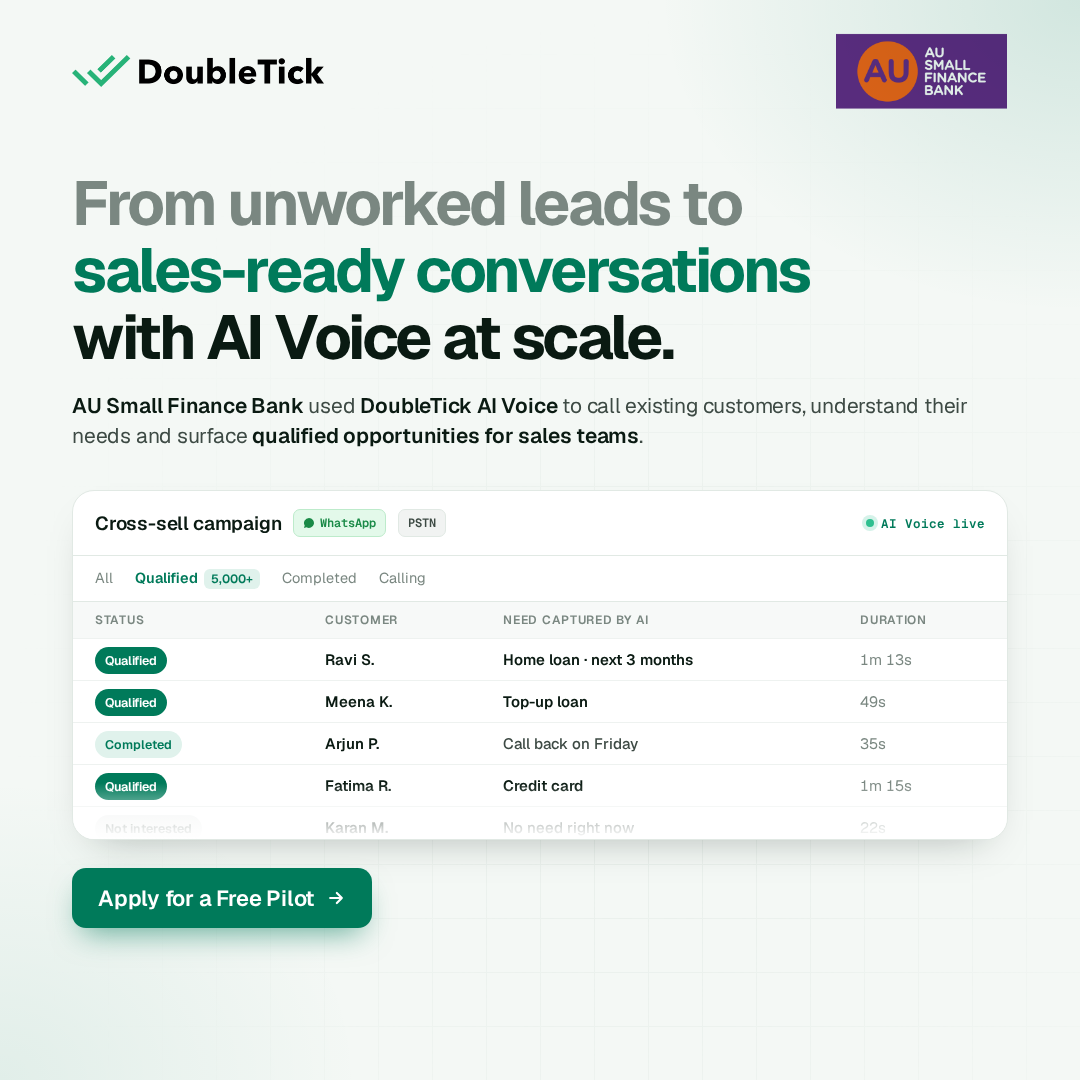
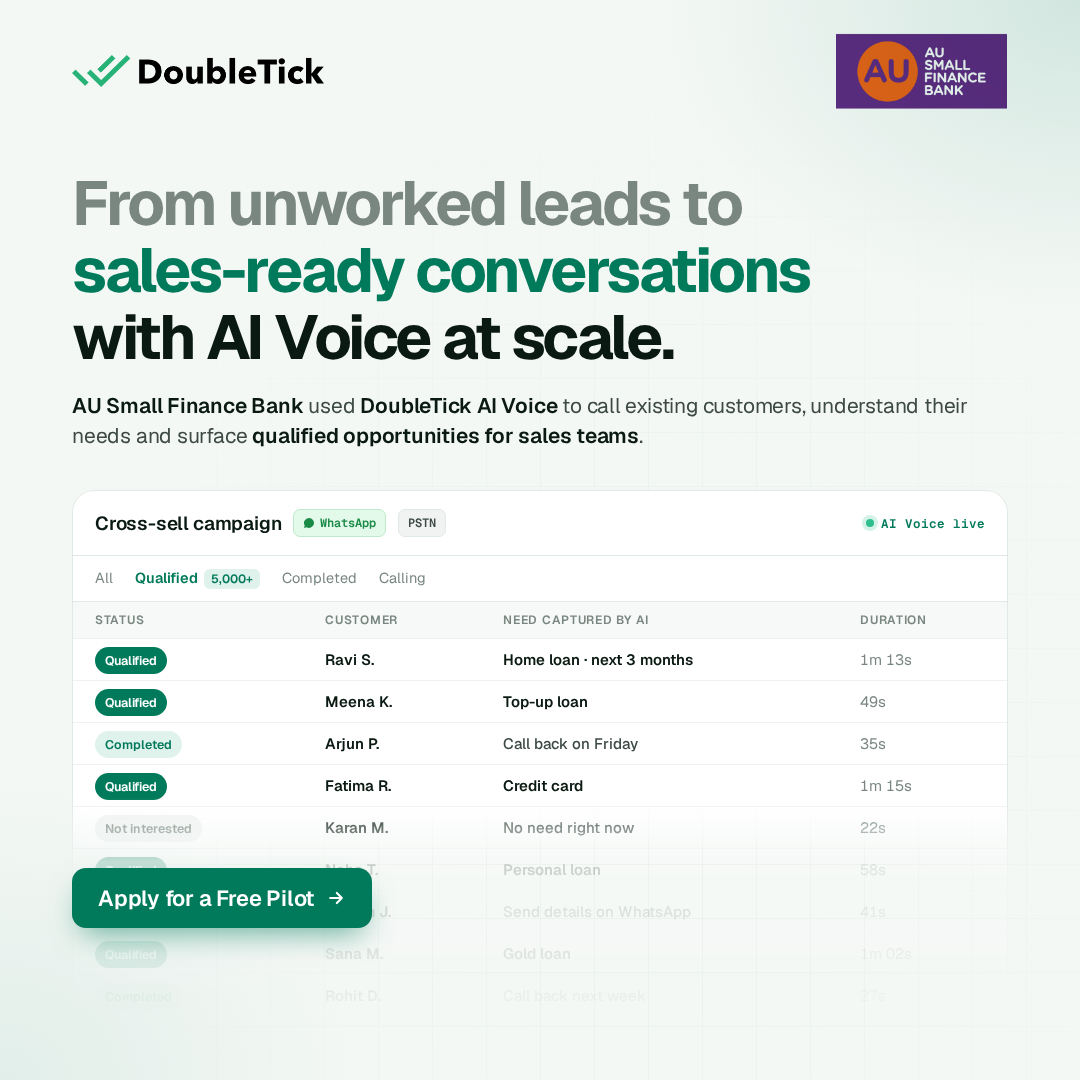
feat: extend AU dashboard visual to bottom edge with fade
Claude-Session: https://claude.ai/code/session_013Hi5o4KgvuLbKTeGkStAKX

Changed region(s): [[0.0917, 0.7333, 0.9167, 0.825]]

diff --git a/ads/doubletick-case-au-v4-dashboard/index.html b/ads/doubletick-case-au-v4-dashboard/index.html
@@ -69,7 +69,9 @@
   .vis { position: absolute; left: 72px; top: 490px; width: 936px; height: 350px; }
   .card { background: #fff; border: 1px solid var(--line); border-radius: 22px; box-shadow: 0 18px 40px -24px rgba(10,26,18,.35); }
   .cap { font-size: 12.5px; font-weight: 600; letter-spacing: .07em; text-transform: uppercase; }
-  .dash { position: absolute; inset: 0; overflow: hidden; }
+  .dash { position: absolute; inset: 0; overflow: hidden; border-bottom: 0; border-radius: 22px 22px 0 0; -webkit-mask-image: linear-gradient(#000 52%, rgba(0,0,0,.18) 63%, rgba(0,0,0,.08) 80%, transparent 96%); mask-image: linear-gradient(#000 52%, rgba(0,0,0,.18) 63%, rgba(0,0,0,.08) 80%, transparent 96%); }
+  .ad > .vis { height: 590px; }
+  .ad > .cta { z-index: 2; }
   .dh { display: flex; align-items: center; gap: 12px; padding: 18px 22px; border-bottom: 1px solid var(--line); }
   .dh .tt { font-size: 19px; font-weight: 600; letter-spacing: -0.01em; }
   .chip { font-size: 12px; font-weight: 600; padding: 5px 9px; border-radius: 7px; display: inline-flex; align-items: center; gap: 5px; }
@@ -109,8 +111,7 @@
   <div class="vis"><div class="card dash">
     <div class="dh"><span class="tt">Cross-sell campaign</span><span class="chip wa mono"><svg width="12" height="12" viewBox="0 0 24 24" fill="#1A8A47"><path d="M12 2a10 10 0 0 0-8.6 15.1L2 22l5-1.3A10 10 0 1 0 12 2z"/></svg>WhatsApp</span><span class="chip ps mono">PSTN</span><span class="live mono"><i></i>AI Voice live</span></div>
     <div class="tabs"><span>All</span><span class="on"><b style="color:inherit">Qualified</b><span class="n">5,000+</span></span><span>Completed</span><span>Calling</span></div>
-    <table><thead><tr><th>Status</th><th>Customer</th><th>Need captured by AI</th><th>Duration</th></tr></thead><tbody><tr><td><span class="st q">Qualified</span></td><td class="nm">Ravi S.</td><td class="need hot">Home loan · next 3 months</td><td class="du">1m 13s</td></tr><tr><td><span class="st q">Qualified</span></td><td class="nm">Meena K.</td><td class="need hot">Top-up loan</td><td class="du">49s</td></tr><tr><td><span class="st c">Completed</span></td><td class="nm">Arjun P.</td><td class="need ">Call back on Friday</td><td class="du">35s</td></tr><tr><td><span class="st q">Qualified</span></td><td class="nm">Fatima R.</td><td class="need hot">Credit card</td><td class="du">1m 15s</td></tr><tr><td><span class="st n">Not interested</span></td><td class="nm">Karan M.</td><td class="need ">No need right now</td><td class="du">22s</td></tr></tbody></table>
-    <div class="fade"></div>
+    <table><thead><tr><th>Status</th><th>Customer</th><th>Need captured by AI</th><th>Duration</th></tr></thead><tbody><tr><td><span class="st q">Qualified</span></td><td class="nm">Ravi S.</td><td class="need hot">Home loan · next 3 months</td><td class="du">1m 13s</td></tr><tr><td><span class="st q">Qualified</span></td><td class="nm">Meena K.</td><td class="need hot">Top-up loan</td><td class="du">49s</td></tr><tr><td><span class="st c">Completed</span></td><td class="nm">Arjun P.</td><td class="need ">Call back on Friday</td><td class="du">35s</td></tr><tr><td><span class="st q">Qualified</span></td><td class="nm">Fatima R.</td><td class="need hot">Credit card</td><td class="du">1m 15s</td></tr><tr><td><span class="st n">Not interested</span></td><td class="nm">Karan M.</td><td class="need ">No need right now</td><td class="du">22s</td></tr><tr><td><span class="st q">Qualified</span></td><td class="nm">Neha T.</td><td class="need hot">Personal loan</td><td class="du">58s</td></tr><tr><td><span class="st c">Completed</span></td><td class="nm">Vikram J.</td><td class="need ">Send details on WhatsApp</td><td class="du">41s</td></tr><tr><td><span class="st q">Qualified</span></td><td class="nm">Sana M.</td><td class="need hot">Gold loan</td><td class="du">1m 02s</td></tr><tr><td><span class="st c">Completed</span></td><td class="nm">Rohit D.</td><td class="need ">Call back next week</td><td class="du">27s</td></tr></tbody></table>
   </div></div>
 
   <div class="cta">
